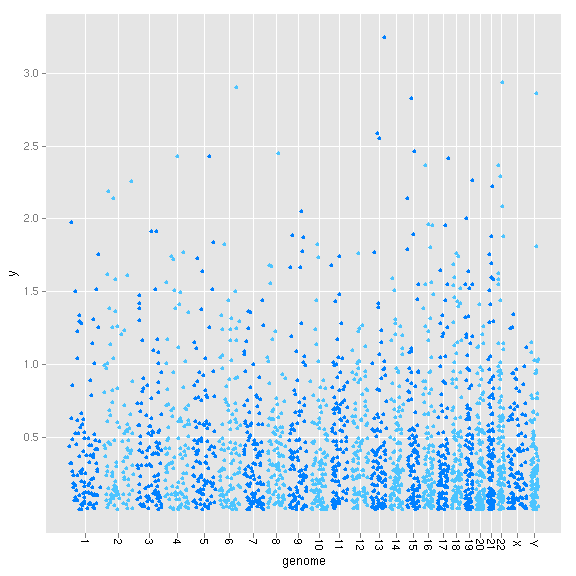
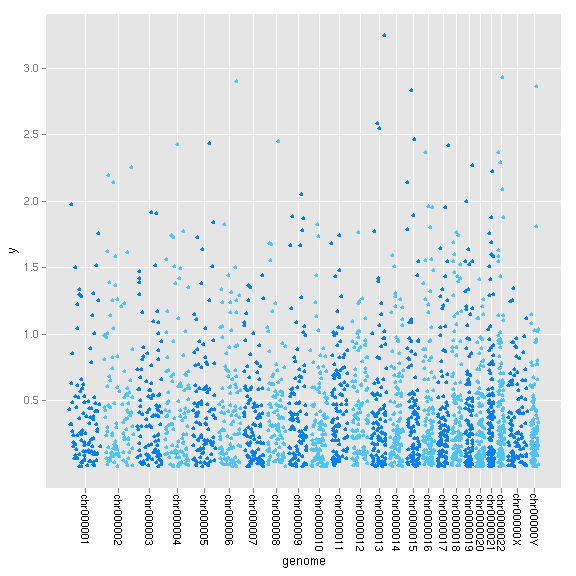
up

diff --git a/_posts/2012-04-12-Manhattan.md b/_posts/2012-04-12-Manhattan.md
@@ -365,7 +365,38 @@ plotGrandLinear(gr.snp, aes(y = pvalue)) + geom_hline(yintercept = 3,
 ![plot of chunk cutoff-low](https://github.com/tengfei/ggbio/raw/gh-pages/_posts/manhattan-cutoff-low.png) 
 
 
-Sometimes the names of chromosomes maybe very long, you may want to rotate them
+
+
+Sometimes the names of chromosomes maybe very long, you may want to rotate them, 
+let's make a longer name first
+
+
+{% highlight r %}
+## let's make a long name
+nms <- seqnames(seqinfo(gr.snp))
+nms.new <- paste("chr00000", nms, sep = "")
+names(nms.new) <- nms
+gr.snp <- renameSeqlevels(gr.snp, nms.new)
+seqlengths(gr.snp)
+{% endhighlight %}
+
+
+
+{% highlight text %}
+##  chr000001  chr000002  chr000003  chr000004  chr000005  chr000006 
+##         NA         NA         NA         NA         NA         NA 
+##  chr000007  chr000008  chr000009 chr0000010 chr0000011 chr0000012 
+##         NA         NA         NA         NA         NA         NA 
+## chr0000013 chr0000014 chr0000015 chr0000016 chr0000017 chr0000018 
+##         NA         NA         NA         NA         NA         NA 
+## chr0000019 chr0000020 chr0000021 chr0000022  chr00000X  chr00000Y 
+##         NA         NA         NA         NA         NA         NA 
+{% endhighlight %}
+
+
+
+
+Then rotate it!
 
 
 {% highlight r %}
